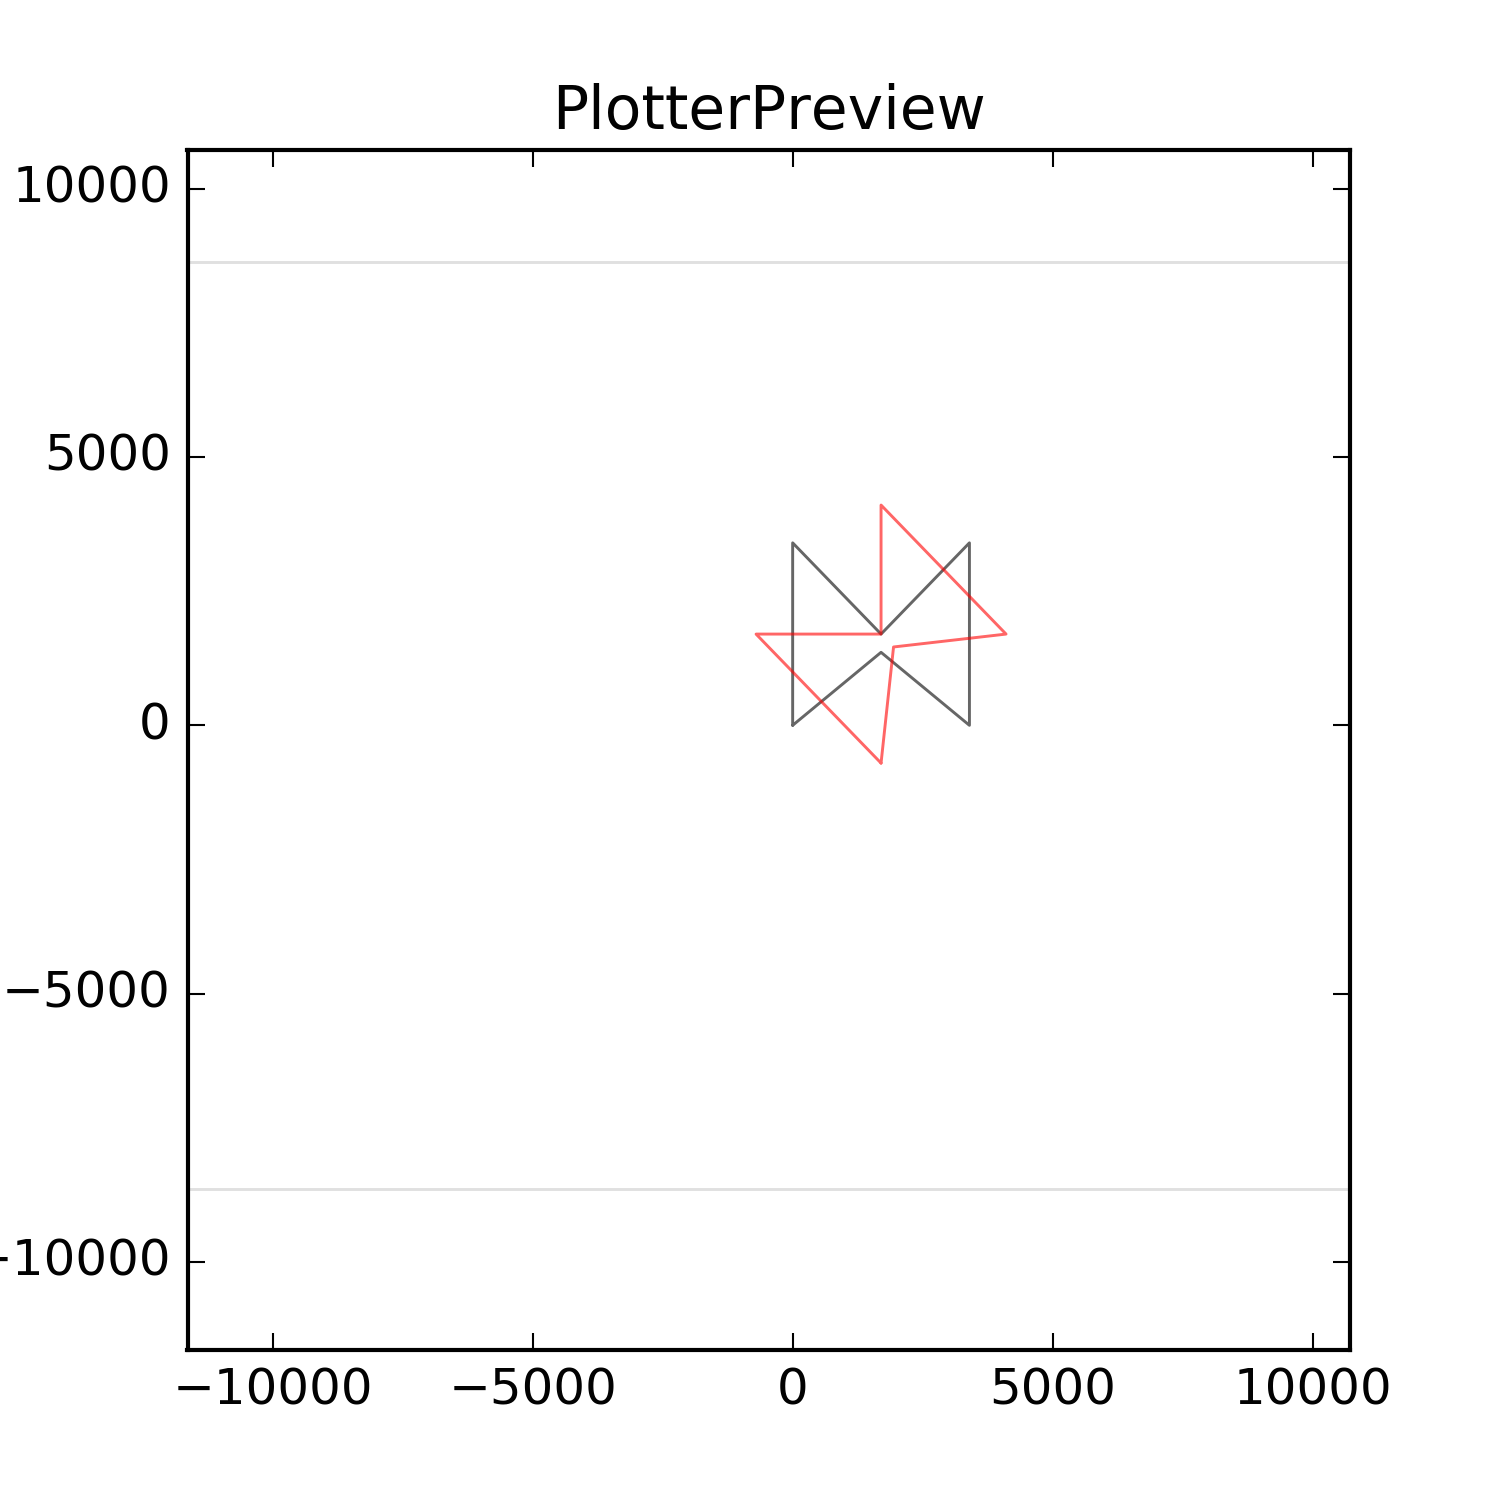
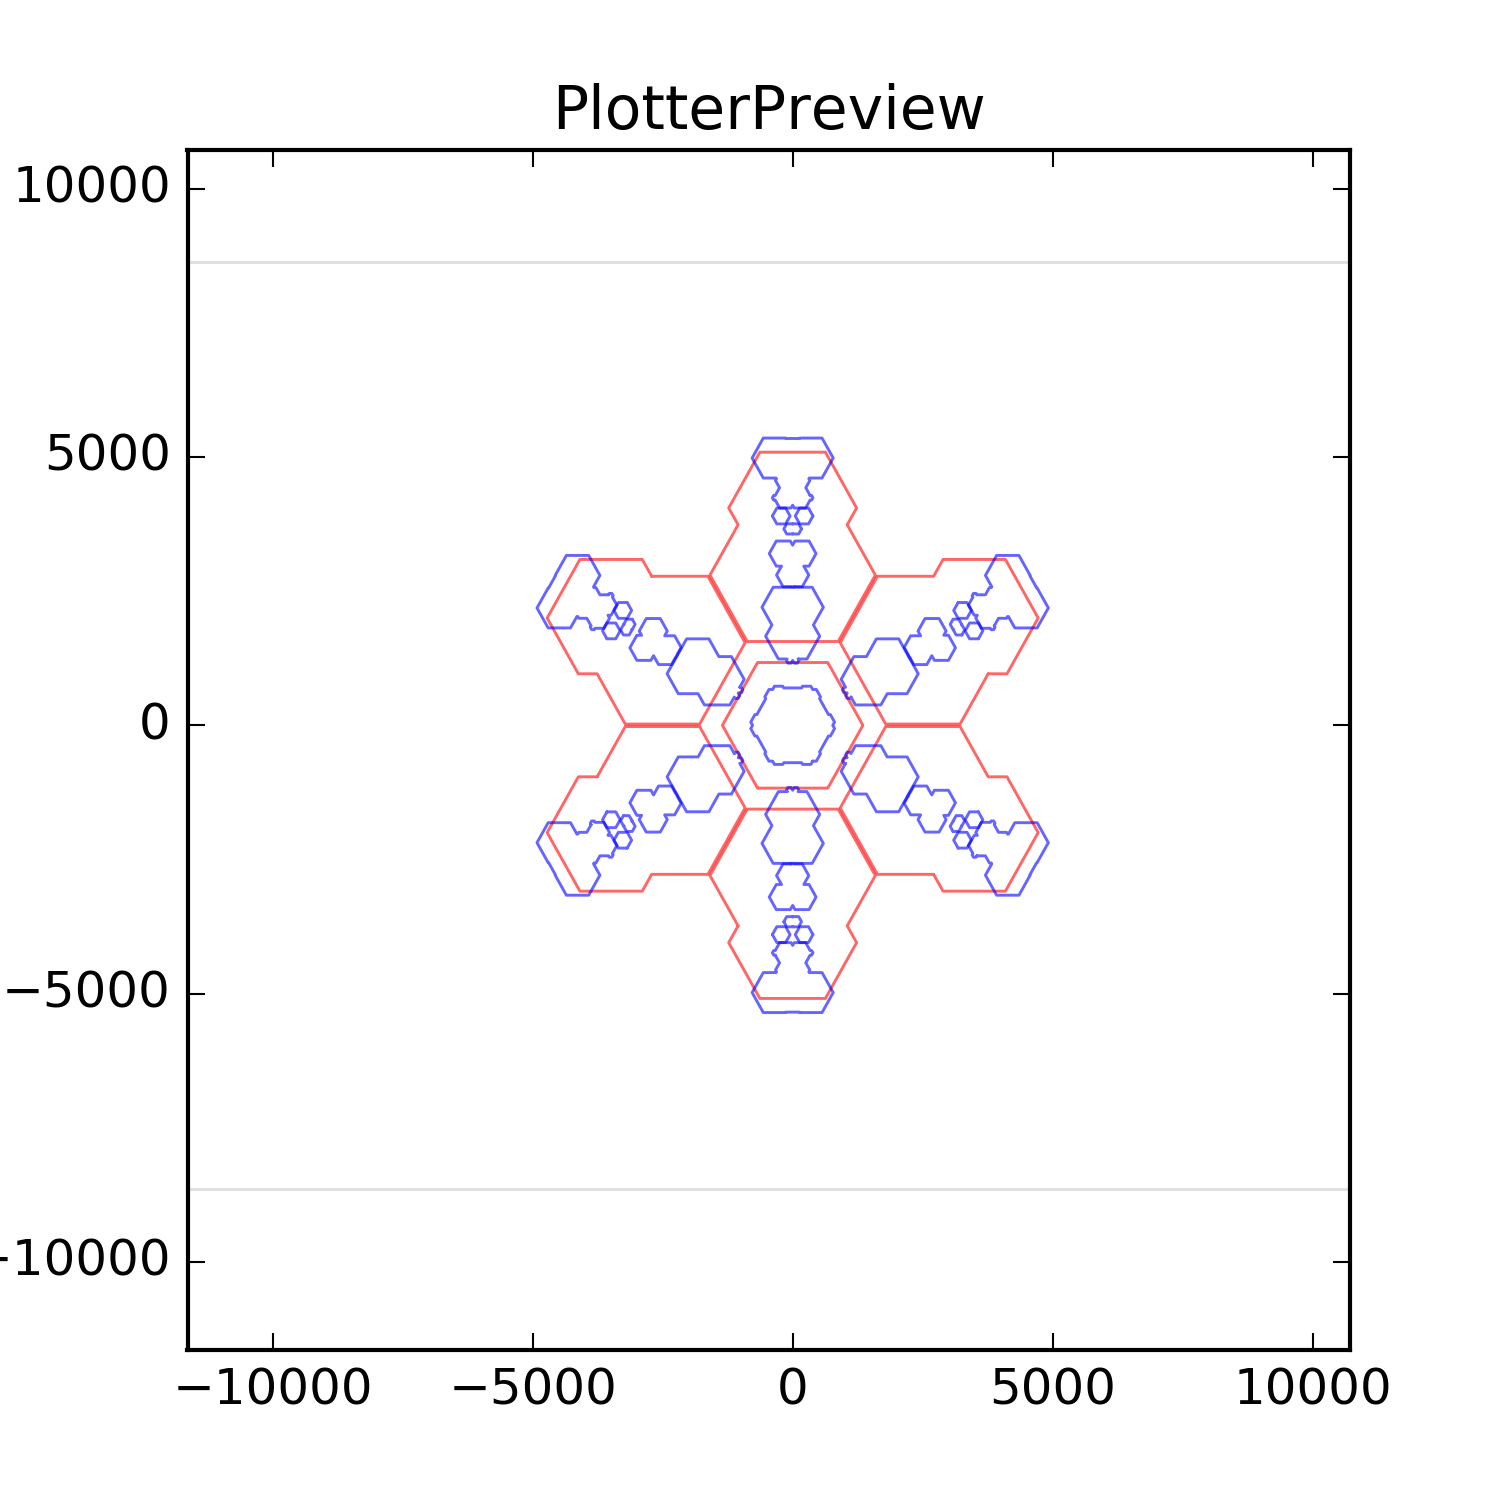
working shank-based snowflake drawings

Changed region(s): [[0.3373, 0.276, 0.7053, 0.6747]]

diff --git a/snowflakes.py b/snowflakes.py
@@ -1,0 +1,77 @@
+from plotter import Plotter
+from shapely.geometry import Polygon, Point
+from shapely.affinity import scale, rotate
+from shapely.ops import cascaded_union
+from random import randint, seed
+
+seed(11)
+#5, 6, 8,  
+
+def points_to_coord_tuples(points):
+    return [(p.x, p.y) for p in points]
+
+def make_hexagon(center, radius):
+    #center is a Shapely point
+    coords = [Point(center.x + radius, center.y)]
+    point = coords[0]
+    for x in range(6):
+        new_point = rotate(point,60 * x, origin=center)
+        coords.append(new_point)
+    coord_tuples = points_to_coord_tuples(coords)
+    hexagon = Polygon(coord_tuples)
+    return hexagon
+        
+def make_hexagons(num_hexagons, xmin, xmax, ymin, ymax, rmin, rmax):
+    hexagons = []
+    for x in range(num_hexagons):
+        center_x = randint(xmin, xmax)
+        center_y = randint(ymin, ymax)
+        radius = randint(rmin, rmax)
+        hexagons.append(
+            make_hexagon(
+                Point(center_x, center_y),
+                radius
+            )
+        )
+    return hexagons
+
+    
+def make_shank(hexagons):
+    union = cascaded_union(hexagons)
+    union_reflection = scale(union, -1.0, 1.0, origin=Point(0,0))
+    return cascaded_union([union, union_reflection])
+
+
+def twist_shank(shank, center):
+    shankles = [shank]
+    for x in range(1, 6):
+        shanklet = rotate(shank, 60 * x, origin=center)
+        shankles.append(shanklet)
+    return cascaded_union(shankles)
+
+def make_snowflake_layer(num_hexagons, r_min, r_max):
+    hexagons = make_hexagons(num_hexagons, 0, 35, 0, 500, r_min, r_max)
+    shank = make_shank(hexagons)
+    full_snowflake = twist_shank(shank, Point(0, 0))
+    return full_snowflake
+
+def add_geometry_to_preview(drawing, geometry, **kwargs):
+    if isinstance(geometry, Polygon):
+        drawing.add_polygon(geometry, **kwargs)
+    else:
+        for poly in geometry.geoms:
+            drawing.add_polygon(poly, **kwargs)
+
+def draw_snowflake_layer(drawing, num_hexagons, r_min, r_max, **kwargs):
+    snowflake_layer = make_snowflake_layer(num_hexagons, r_min, r_max)
+    add_geometry_to_preview(drawing, snowflake_layer, **kwargs)
+
+def run():
+    drawing = Plotter(plot=False)
+    draw_snowflake_layer(drawing, 5, 50, 150, color="#FF0000")
+    #draw_snowflake_layer(drawing, 50, 5, 50)
+    draw_snowflake_layer(drawing, 20, 5, 50, color="#0000FF")
+    drawing.save_preview()
+    
+if __name__ == '__main__':
+    run()

diff --git a/plotter.py b/plotter.py
@@ -23,6 +23,7 @@ class Plotter:
         if self.plot:
             plotters = instantiate_plotters()
             self.plotter = plotters[0]
+            self.plotter.write(hpgl.AS(1))
 
     def get_bounds(self):
         self.bounds_poly = Polygon([
@@ -34,7 +35,8 @@ class Plotter:
             ])
         self.width = 11640 + 10720
         self.height = 8640 * 2
-        self.scale_ratio = self.height / 1000
+        #self.scale_ratio = self.height / 1000
+        self.scale_ratio = 2
 
     def add_bounds_preview(self):
         self.preview_polygon(self.bounds_poly, color="#CCCCCC")
@@ -64,19 +66,3 @@ class Plotter:
 
     def save_preview(self):
         pyplot.savefig('plot.png', dpi=300)
-
-
-def run():
-    preview = Plotter(plot=False)
-    poly = Polygon([
-        (0, 0), (0, 200), (100, 100),
-        (200, 200), (200, 0), (100, 80), (0, 0)])
-    poly2 = rotate(poly, 45)
-
-    preview.add_polygon(poly)
-    preview.add_polygon(poly2, color='#FF0000')
-    preview.save_preview()
-
-
-if __name__ == '__main__':
-    run()
